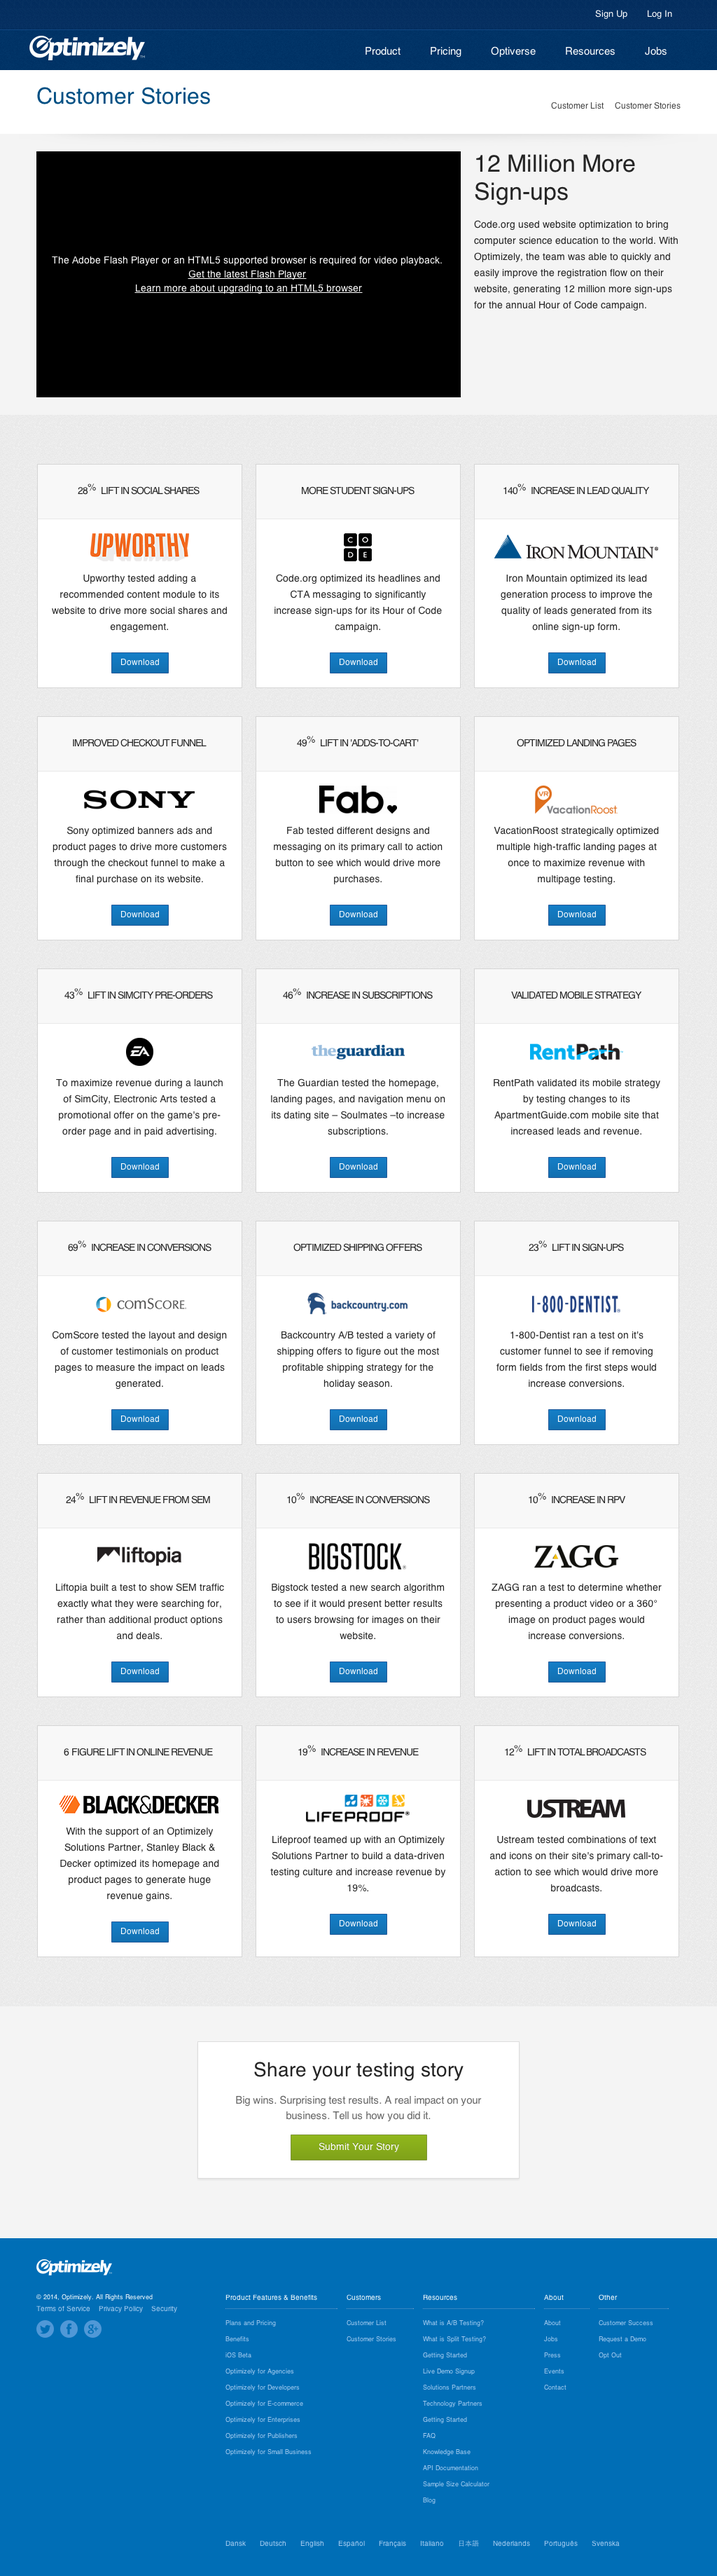
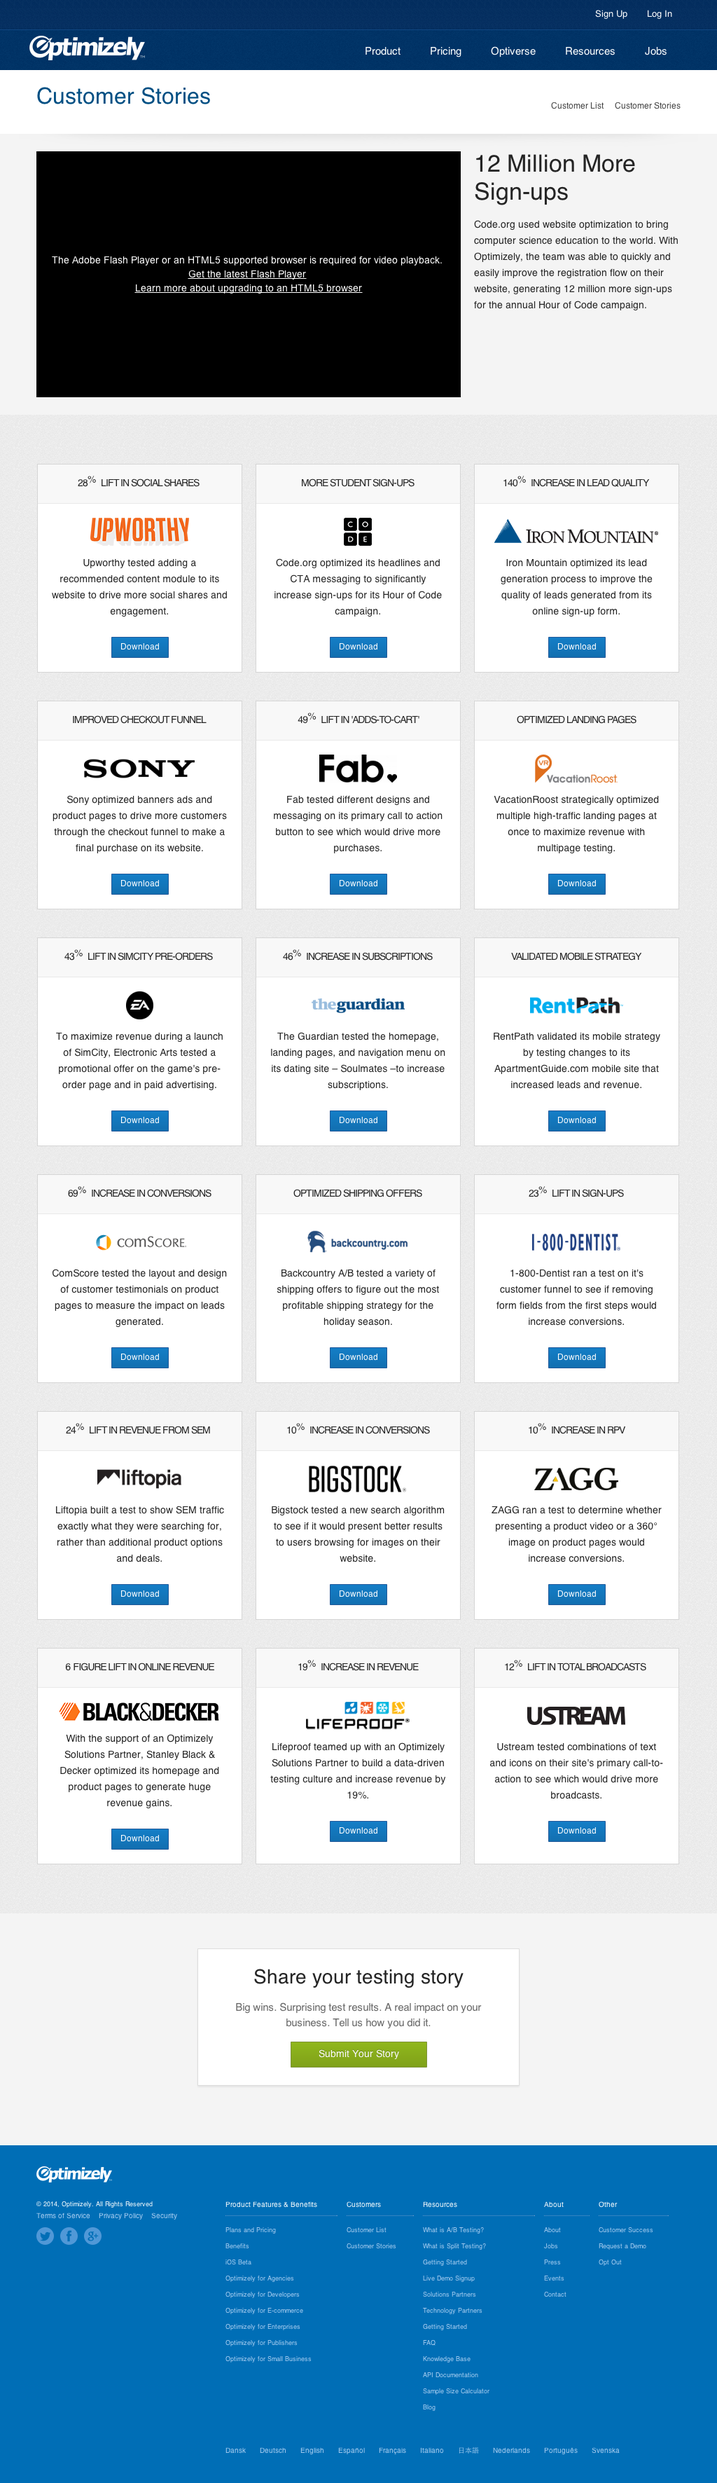
center align headers and add padding.

diff --git a/website-guts/assets/css/pages/customer-stories.scss b/website-guts/assets/css/pages/customer-stories.scss
@@ -47,7 +47,7 @@ body.customer-stories-page {
       background: #f8f8f8;
       border-bottom: 1px solid #e9e9e9;
       text-transform: uppercase;
-      padding: 0.8em 0;
+      padding: 0 0.8em;
       font-size: 14px;
       font-weight: 300;
       letter-spacing: -1.2px;
@@ -61,6 +61,7 @@ body.customer-stories-page {
       display: inline-block;
       font-family: $body-font-family;
       font-weight: 100;
+      text-align: center;
       span {font-weight: 500;}
     }
     .customer-inner-content {
